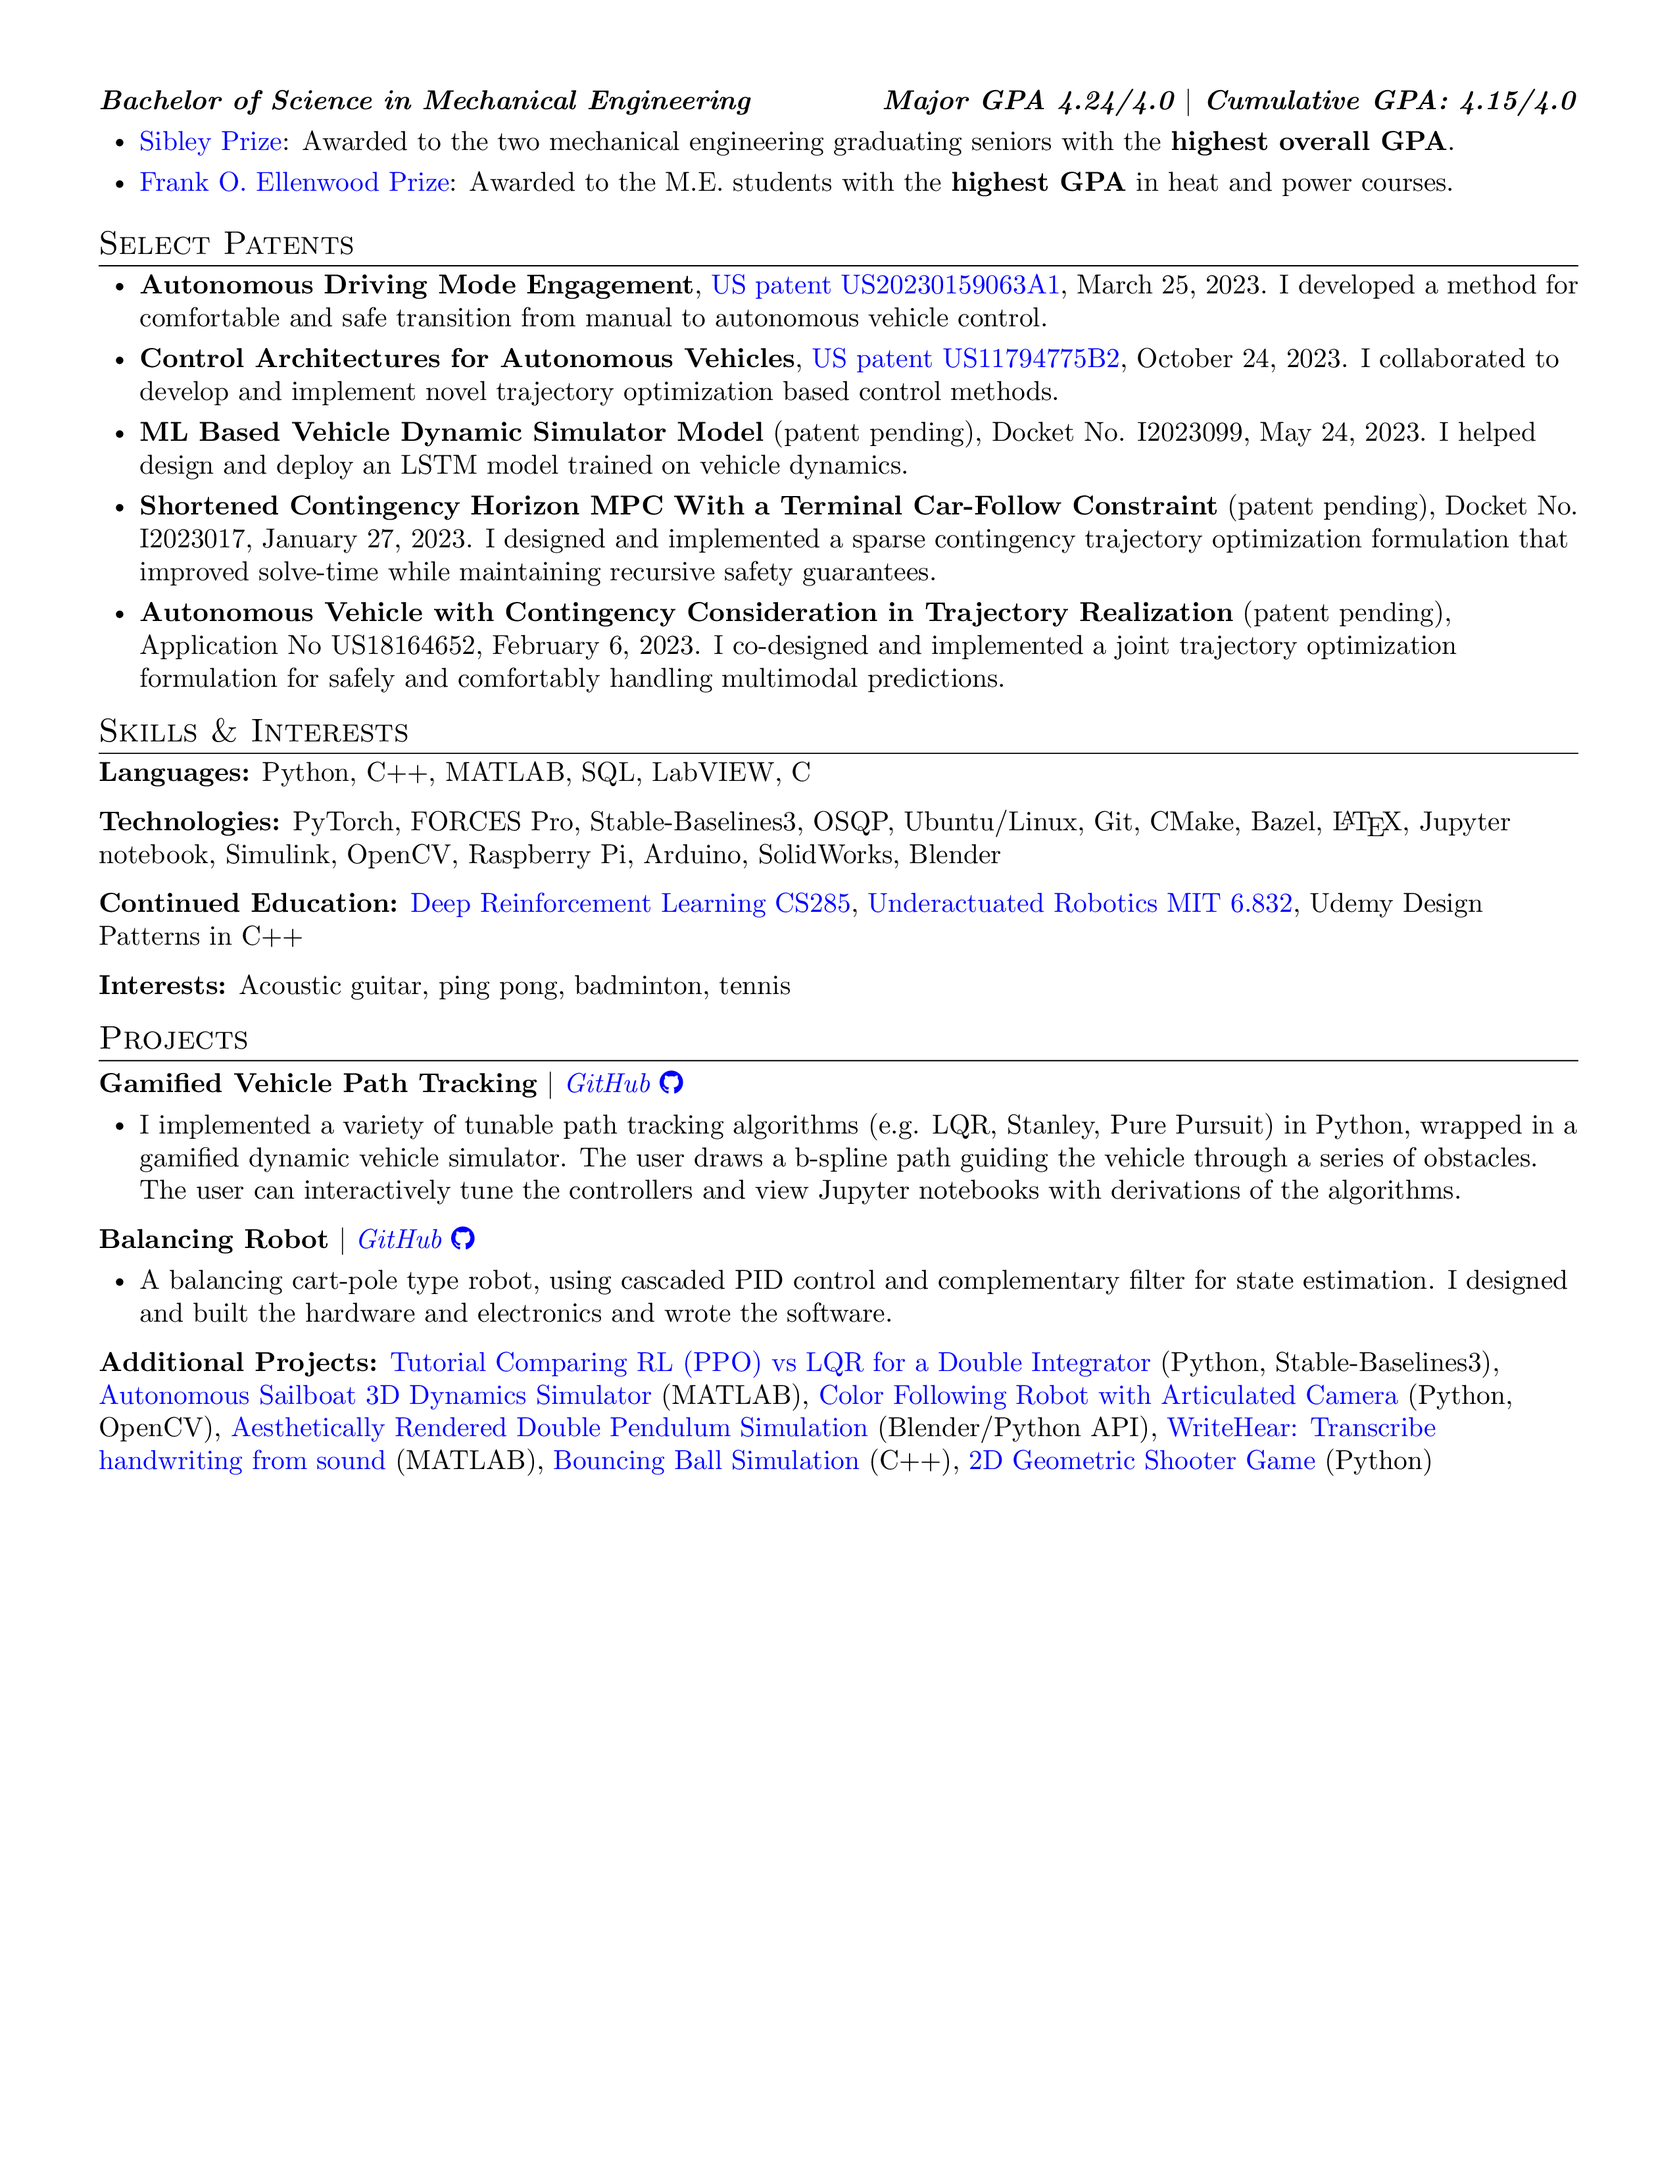
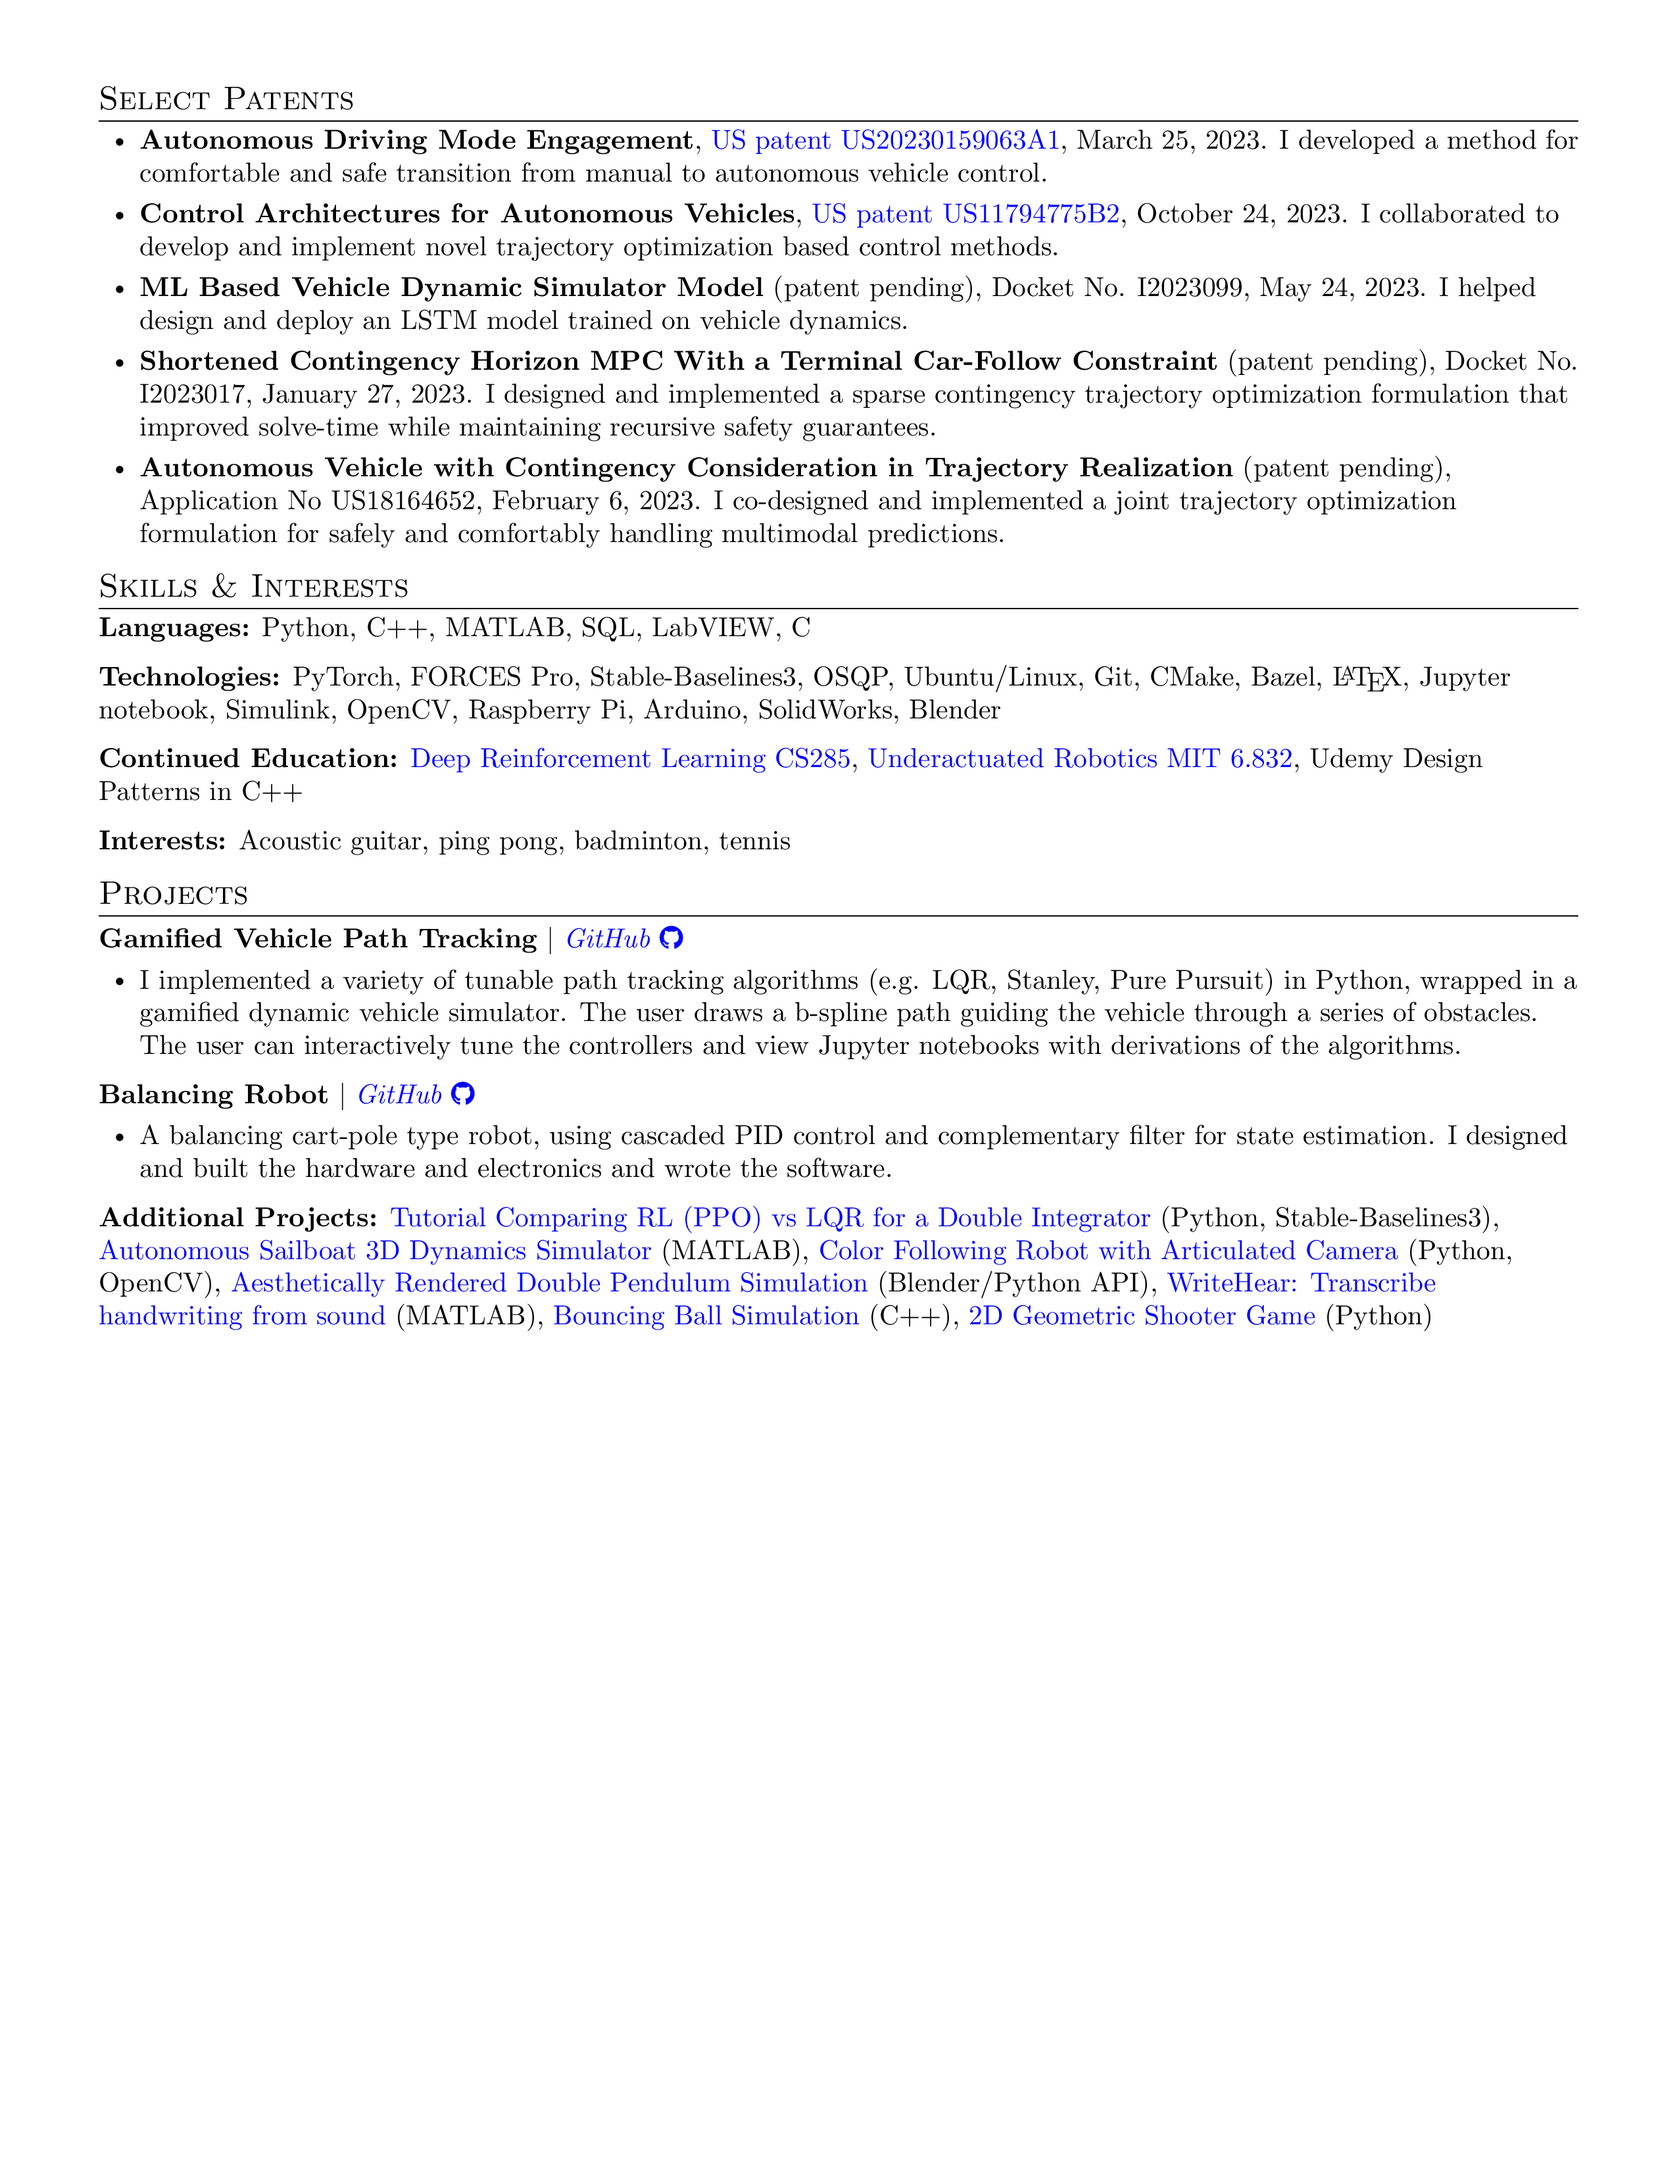
adding conditional logic

diff --git a/jesse_miller_resume.tex b/jesse_miller_resume.tex
@@ -29,6 +29,11 @@
 \usepackage{enumitem}
 \input{glyphtounicode}
 \usepackage{parskip}
+\usepackage{etoolbox}  % for conditional logic
+
+% is_long_version = true will render more detailed resume
+\newtoggle{is_long_version} % Define the boolean variable
+\settoggle{is_long_version}{true}
 
 \pagestyle{fancy}
 
@@ -52,7 +57,6 @@
   \scshape\raggedright\large
 }{}{0em}{}[\color{black}\titlerule]
 
-
 % Ensure that generate pdf is machine readable/ATS parsable
 \pdfgentounicode=1
 
@@ -63,7 +67,9 @@
 {3pt} % spacing above
 {3pt} % spacing below
 
-\linespread{1.0}  % single line spacing
+\iftoggle{is_long_version}
+{\linespread{1.0}}  % single line spacing
+{\linespread{0.95}}  % single line spacing
 \setlength{\parskip}{0pt} % paragraph spacing
 
 % bullet list spacing
@@ -146,8 +152,12 @@
   \faMapMarker \hspace{\spaceAfterLogo} \href{https://maps.app.goo.gl/hpB8QGkNWpEHrJGD9}{Cambdrige, MA}
 \end{center}
 
-\section{Personal Statement}
-\small Seasoned Robotics Control Engineer specializing in autonomous vehicles. Expert in control theory, trajectory optimization, and reinforcement learning. Passionate about continuous learning, working on numerous side projects and taking online courses.
+%----------- SUMMARY -----------
+\iftoggle{is_long_version}
+{
+  \section{Personal Statement}
+  \small Seasoned Robotics Control Engineer specializing in autonomous vehicles. Expert in control theory, trajectory optimization, and reinforcement learning. Passionate continuous learner, working on numerous side projects and taking online courses.
+}{}
 
 %----------- EXPERIENCE -----------
 
@@ -175,7 +185,9 @@
 \innerBulletListEnd
 \bulletItem{Led Path Tracker Perfomance team (6 ppl) creating Python and SQL metric frameworks, automating release tests, and improving LQR tracking performance. Reduced rate of high cross-track error from \textbf{25 to 1 violation per 1K miles}.}
 \bulletItem{Collaborated with team to formulate and implement a \textbf{convex trajectory optimizer} using OSQP, reducing latency by 50\%.}
-\bulletItem{Developed MySQL metric dashboards for visualization, triage, and drilldown of controls related errors; monitored weekly.}
+\iftoggle{is_long_version}{
+  \bulletItem{Developed MySQL metric dashboards for visualization, triage, and drilldown of controls related errors; monitored weekly.}
+}{}
 \bulletItem{\textbf{Led Trajectory Formulation Team} for a quarter; defined the team’s north star strategy, conducted one-on-ones, and oversaw successful demo deployment.}
 \bulletItem{Developed and patented an \textbf{ML based vehicle dynamics model} for simulation (LSTM in PyTorch) and deployed it in C++, reducing average displacement error by 40\% compared to physics based model.}
 \bulletItem{Primary code owner and developer for repo containing Python analysis scripts used for AV log visualization and debug, regularly used by 30+ people.}
@@ -186,7 +198,9 @@
 \outerBulletListStart
 \bulletItem{Owner of a dynamic bicycle model based \textbf{path tracker module}, refactoring and integrating code during the company merger.}
 \bulletItem{Designed and coded ‘Mock Planner’ \& ‘Fault Injection’ tools in C++ and Python used to stress test controller \& for vehicle operator training.}
-\bulletItem{Curated a set of ride comfort metrics (e.g. motion sickness likelihood), implementing extractors to monitor comfort trends.}
+\iftoggle{is_long_version}{
+  \bulletItem{Curated a set of ride comfort metrics (e.g. motion sickness likelihood), implementing extractors to monitor comfort trends.}
+}{}
 \bulletItem{Mentored intern who explored trajectory optimizer solver modifications for improved latency and performance.}
 \outerBulletListEnd
 
@@ -219,15 +233,18 @@
 \bulletItem{Provided recommended robotic sailboat design to \bref{https://cusail.com/}{CUSail project team} at Cornell which they built and tested on Cayuga Lake, verifying the simulation results.}
 \outerBulletListEnd
 
-\companyNameAndLocationHeading
-{Engineering Dynamics Class (MAE 2030)}{Ithaca, NY}
-\titleAndDateHeading
-{Graduate Teaching Specialist}{January 2016 \textbf{--} May 2016}
-\outerBulletListStart
-\bulletItem{Taught two recitation sections with about 15 students in each, held regular office hours, and graded exams.}
-\bulletItem{Volunteered to fill in for the Professor, teaching a one-and-a-half-hour lecture to about 150 students.}
-\bulletItem{Received \textbf{4.88/5 overall rating} on my TA evaluation based on 16 student responses and was nominated to be a TA trainer.}
-\outerBulletListEnd
+\iftoggle{is_long_version}
+{
+  \companyNameAndLocationHeading
+  {Engineering Dynamics Class (MAE 2030)}{Ithaca, NY}
+  \titleAndDateHeading
+  {Graduate Teaching Specialist}{January 2016 \textbf{--} May 2016}
+  \outerBulletListStart
+  \bulletItem{Taught two recitation sections with about 15 students in each, held regular office hours, and graded exams.}
+  \bulletItem{Volunteered to fill in for the Professor, teaching a one-and-a-half-hour lecture to about 150 students.}
+  \bulletItem{Received \textbf{4.88/5 overall rating} on my TA evaluation based on 16 student responses and was nominated to be a TA trainer.}
+  \outerBulletListEnd
+}{}
 
 \companyNameAndLocationHeading
 {Amazon Robotics}{North Reading, MA}
@@ -235,7 +252,9 @@
 {Data Analyst and Performance Intern}{May 2015 \textbf{--} August 2015}
 \outerBulletListStart
 \bulletItem{Created a random forest machine learning predictor using Python and MySQL to predict the time it takes to pick an item off a shelf.}
-\bulletItem{Designed a Linux service using Java and XML, allowing the predictor to be easily used.}
+\iftoggle{is_long_version}{
+  \bulletItem{Designed a Linux service using Java and XML, allowing the predictor to be easily used.}
+}{}
 \bulletItem{Implemented the predictor service with a performance website, improving metrics used to assess employee performance.}
 \outerBulletListEnd
 
@@ -254,14 +273,17 @@
 \bulletItem{Published and presented \bref{https://www.researchgate.net/publication/290192705_Effect_of_Unsteady_Flow_on_Intercooler_Performance}{a conference paper} based on these findings in the SAE 2014 Aerospace Conference.}
 \outerBulletListEnd
 
-\companyNameAndLocationHeading
-{Autonomous Systems Laboratory}{Ithaca, NY}
-\titleAndDateHeading
-{Mechanical Engineering Researcher}{August 2014 \textbf{--} December 2014}
-\outerBulletListStart
-\bulletItem{Developed and wrote Python handlers to control a robotic ball, Sphero, with a path planning program, LTLMoP.}
-\bulletItem{Successfully demoed the code, having Sphero autonomously traverse a map and react to its environment.}
-\outerBulletListEnd
+\iftoggle{is_long_version}
+{
+  \companyNameAndLocationHeading
+  {Autonomous Systems Laboratory}{Ithaca, NY}
+  \titleAndDateHeading
+  {Mechanical Engineering Researcher}{August 2014 \textbf{--} December 2014}
+  \outerBulletListStart
+  \bulletItem{Developed and wrote Python handlers to control a robotic ball, Sphero, with a path planning program, LTLMoP.}
+  \bulletItem{Successfully demoed the code, having Sphero autonomously traverse a map and react to its environment.}
+  \outerBulletListEnd
+}{}
 
 \sectionListEnd
 
@@ -318,18 +340,6 @@
 \bulletItem{\textbf{Continued Education:}{ \bref{https://github.com/jam643/CS285DeepRL/tree/master}{Deep Reinforcement Learning CS285}, \bref{https://github.com/jam643/UnderactuatedRobotics-6p832-JesseM}{Underactuated Robotics MIT 6.832}, Udemy Design Patterns in C++}}
 \vspace{\vspaceAfterBullets}
 \bulletItem{\textbf{Interests:}{ Acoustic guitar, ping pong, badminton, tennis}}
-
-% \small{\item{
-
-%               \textbf{Languages:}{ Python, C++, MATLAB, SQL, LabVIEW, C} \\ \vspace{\vspaceAfterBullets}
-
-%               \textbf{Technologies:}{ PyTorch, FORCES Pro, Stable-Baselines3, OSQP, Ubuntu/Linux, Git, CMake, Bazel, \LaTeX, Jupyter notebook, Simulink, OpenCV, Raspberry Pi, Arduino, SolidWorks, Blender} \\ \vspace{\vspaceAfterBullets}
-
-%               \textbf{Continued Education:}{ \bref{https://github.com/jam643/CS285DeepRL/tree/master}{Deep Reinforcement Learning CS285}, \bref{https://github.com/jam643/UnderactuatedRobotics-6p832-JesseM}{Underactuated Robotics MIT 6.832}, Udemy Design Patterns in C++} \\ \vspace{\vspaceAfterBullets}
-
-%               \textbf{Interests:}{ Acoustic guitar, ping pong, badminton, tennis} \\ \vspace{\vspaceAfterBullets}
-
-%         }}
 \sectionListEnd
 
 %----------- PROJECTS -----------
